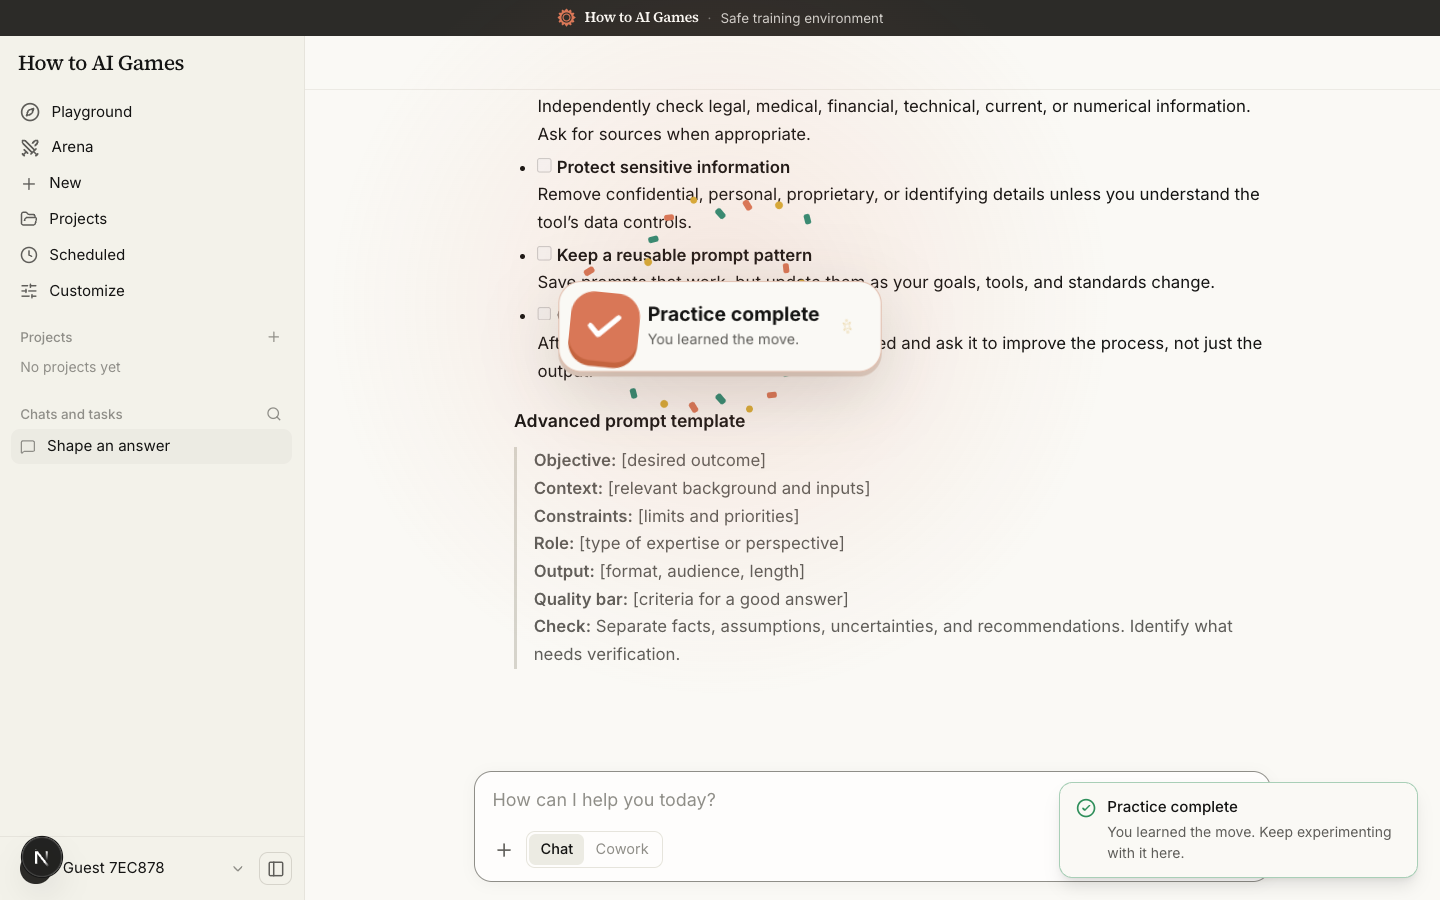
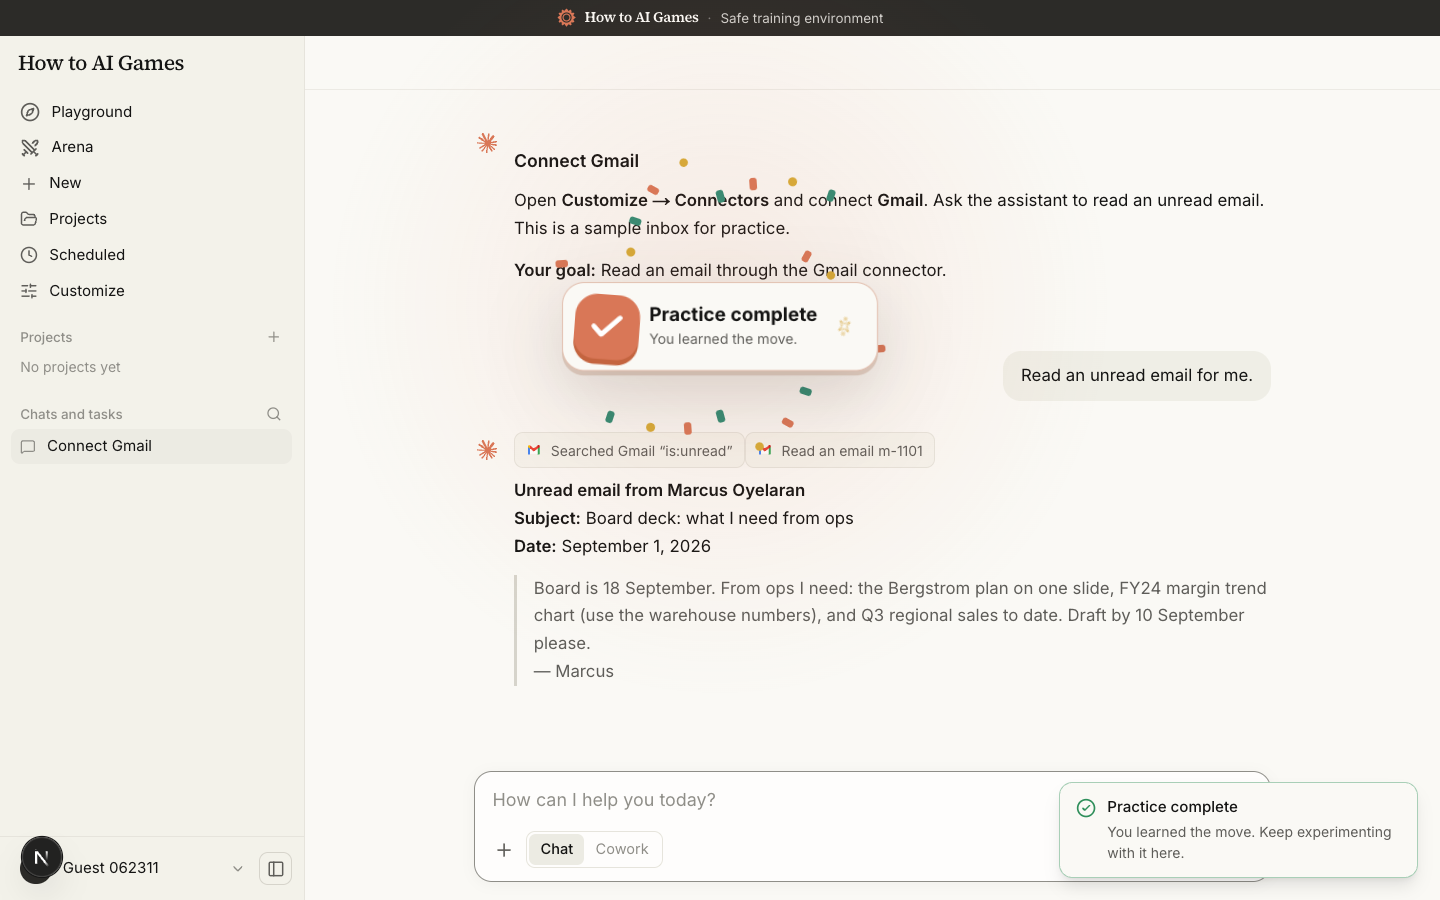
Handle Gmail unread searches in practice

Changed region(s): [[0.3125, 0.0933, 0.875, 0.7467], [0.5938, 0.3733, 0.875, 0.4356], [0.0312, 0.4667, 0.125, 0.4978]]

diff --git a/tests/arena.test.ts b/tests/arena.test.ts
@@ -8,6 +8,8 @@ import { gradeBehaviors, type WorkspaceEvidence } from "../src/lib/arena/evidenc
 import { advanceHistory } from "../src/lib/arena/server-history";
 import { countExplanationWords } from "../src/lib/arena/measurements";
 import { OnboardingSchema } from "../src/lib/onboarding";
+import { EMAILS } from "../src/lib/company/gmail";
+import { matchesGmailQuery } from "../src/lib/company/gmail-search";
 import { tierFor } from "../src/lib/tiers";
 import { transcriptOf } from "../src/lib/transcript";
 import { setState, getState, startAttempt, newChat, endAttempt, saveMessages, attemptChats, importResults, switchWorkspace } from "../src/lib/store";
@@ -18,6 +20,16 @@ const chat = (messages: UIMessage[] = [text("u", "user")]): Chat => ({ id: "c", 
 const world = (chats = [chat()]): WorkspaceEvidence => ({ chats, projects: [], skills: [], schedules: [], groups: [] });
 const ev = (type: ArenaEvent["type"], detail?: string): ArenaEvent => ({ type, detail, at: new Date().toISOString(), chatId: "c" });
 const result = (passed: boolean, points: number): ArenaResult => ({ slug: "ten-words", passed, points, maxPoints: 25, seconds: 5, speedMult: 1, hintsUsed: 0, behaviors: [], checks: [], feedback: "", badges: passed ? ["constraints"] : [], at: new Date().toISOString() });
+
+test("Gmail practice understands unread qualifiers instead of treating them as text", () => {
+  const unread = EMAILS.filter((email) => matchesGmailQuery(email, "is:unread"));
+  assert.ok(unread.length > 0);
+  assert.ok(unread.every((email) => email.unread));
+  assert.deepEqual(
+    EMAILS.filter((email) => matchesGmailQuery(email, "is:unread board")).map((email) => email.id),
+    ["m-1101"],
+  );
+});
 
 test("all46 challenges have unique public criteria and versions change with instructions", () => {
   assert.equal(CHALLENGES.length, 46);

diff --git a/src/lib/connector-tools.ts b/src/lib/connector-tools.ts
@@ -2,6 +2,7 @@ import "server-only";
 import { tool, type ToolSet } from "ai";
 import { z } from "zod";
 import { EMAILS } from "./company/gmail";
+import { matchesGmailQuery } from "./company/gmail-search";
 import { DRIVE } from "./company/drive";
 import { TABLES, tableToCsv } from "./company/warehouse";
 import { CALENDAR } from "./company/calendar";
@@ -22,7 +23,7 @@ export function connectorTools(connected: ConnectorId[]): ToolSet {
       description: "Search the user's Gmail inbox. Returns matching emails (id, from, subject, date, snippet). Use read_email for the full body.",
       inputSchema: z.object({ query: z.string().describe("Free-text search: sender, subject words, or topic. Empty string lists recent mail.") }),
       execute: async ({ query }) => {
-        const rows = EMAILS.filter((e) => hit(`${e.fromName} ${e.from} ${e.subject} ${e.body}`, query))
+        const rows = EMAILS.filter((e) => matchesGmailQuery(e, query))
           .sort((a, b) => b.date.localeCompare(a.date))
           .slice(0, 10)
           .map((e) => ({ id: e.id, from: `${e.fromName} <${e.from}>`, subject: e.subject, date: e.date, unread: !!e.unread, snippet: e.body.slice(0, 110).replace(/\s+/g, " ") + "…" }));

diff --git a/src/lib/company/gmail-search.ts b/src/lib/company/gmail-search.ts
@@ -1,0 +1,15 @@
+import type { Email } from "./gmail";
+
+/** Understand the small set of Gmail qualifiers the model naturally uses. */
+export function matchesGmailQuery(email: Email, query: string): boolean {
+  const tokens = query.toLowerCase().trim().split(/\s+/).filter(Boolean);
+  const wantsUnread = tokens.some((token) => token === "is:unread" || token === "label:unread");
+  const wantsRead = tokens.some((token) => token === "is:read" || token === "label:read");
+  if (wantsUnread && !email.unread) return false;
+  if (wantsRead && email.unread) return false;
+
+  const words = tokens.filter((token) => !/^(is|label):(un)?read$/.test(token));
+  if (!words.length) return true;
+  const searchable = `${email.fromName} ${email.from} ${email.subject} ${email.body}`.toLowerCase();
+  return words.some((word) => searchable.includes(word));
+}
